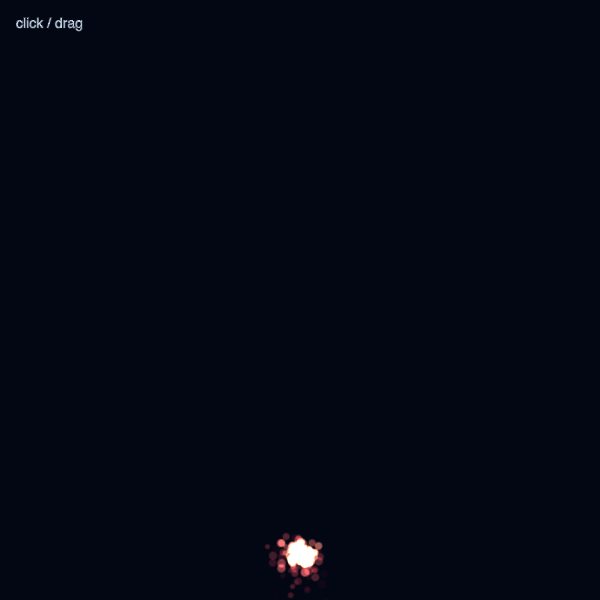
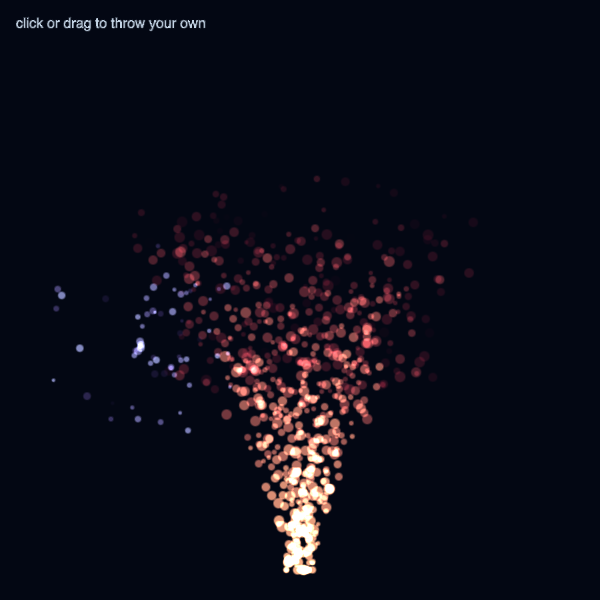
fix(examples): make the weak scenes worth looking at
Six of the eighteen stills were the argument against the gallery rather than
for it, and four of them were broken scenes rather than unlucky captures.

**Mouse trail** was a single dot. Sixty samples of a cursor that has not moved
stack on one point, so the scene had nothing to show anyone who had not already
touched it — including the first second after it loads. It now flies a slow
figure of its own and hands over the moment a real cursor arrives, leaning
rather than jumping in both directions.

**Particles** was a speck at the bottom of a black frame: a fountain whose
sparks died at ankle height, and a burst that only existed if you were already
holding the mouse. The fountain now clears two thirds of the frame, and the
scene throws its own bursts until someone takes over — a scene has to be worth
looking at before anyone thinks to click it.

**Post bloom** came out as a white smear. The chain replaces the frame rather
than adding to it, because a pass only ever sees the pass before it; the shapes
were drawn opaque and additive, so they saturated, the threshold kept all of
them and the blur spread one white sheet over everything. Fewer, translucent,
spread wider — and now the cutoff finds cores and the blur gives them halos.
The threshold also returned `vec4(0.0)` for what it dropped, which is a
*transparent* frame, not a black one: identical over a dark page and wrong
everywhere else, which a still found immediately.
[…]

diff --git a/examples/particles.ts b/examples/particles.ts
@@ -1,5 +1,5 @@
 /**
- * Click or drag to throw sparks. A fountain at the bottom keeps emitting.
+ * A fountain that keeps throwing sparks, and bursts you can throw yourself.
  * Tests: pooled particles, gravity, colour fade, zero-alloc fillRgba path.
  */
 import { start, type HazumiApp } from "hazumi/app";
@@ -7,38 +7,49 @@ import { webgl2 } from "hazumi/backends/webgl2";
 import { Blend, background, fill, text, textSize } from "hazumi/draw";
 import { input } from "hazumi/input";
 import { particles } from "hazumi/particles";
-import { screen } from "hazumi/scene";
+import { random, screen } from "hazumi/scene";
 
 export function sparks(parent: HTMLElement): HazumiApp {
   return start({ backend: webgl2(), width: 600, height: 600, parent, seed: 4 }, () => {
-    const burst = particles({ capacity: 400, gravity: { y: 520 }, drag: 0.6, blend: Blend.Add });
-    const fountain = particles({ capacity: 180, gravity: { y: 380 }, drag: 0.4, blend: Blend.Add });
+    const burst = particles({ capacity: 700, gravity: { y: 520 }, drag: 0.6, blend: Blend.Add });
+    const fountain = particles({ capacity: 900, gravity: { y: 380 }, drag: 0.2, blend: Blend.Add });
+    // Somewhere for the automatic bursts to go off, wandering so two of them
+    // are never in the same place.
+    let sinceBurst = 0;
 
     return {
       update: (dt: number): void => {
         fountain.drip(
           {
-            x: [screen.width / 2 - 10, screen.width / 2 + 10],
-            y: screen.height - 36,
-            rate: 180,
-            speed: [80, 160],
-            angle: [-Math.PI / 2 - 0.35, -Math.PI / 2 + 0.35],
+            x: [screen.width / 2 - 14, screen.width / 2 + 14],
+            y: screen.height - 30,
+            rate: 620,
+            // Enough to clear two thirds of the frame: a fountain that dies at
+            // ankle height reads as a fault rather than as a fountain.
+            speed: [420, 620],
+            angle: [-Math.PI / 2 - 0.3, -Math.PI / 2 + 0.3],
             spin: [-4, 4],
-            life: [0.5, 1.1],
-            size: [4, 9],
+            life: [0.9, 1.6],
+            size: [4, 11],
             color: "oklch(0.82 0.16 55)",
             endColor: "oklch(0.45 0.18 20 / 0)",
           },
           dt,
         );
-        if (input.mouseIsPressed) {
+        sinceBurst += dt;
+        // The scene has to be worth looking at before anyone thinks to click
+        // it, so it throws its own bursts until someone does.
+        const held = input.mouseIsPressed;
+        if (held || sinceBurst > 0.85) {
+          const spread = held ? 0 : 1;
+          sinceBurst = held ? sinceBurst : 0;
           burst.emit({
-            x: input.mouseX,
-            y: input.mouseY,
-            count: 14,
-            speed: [60, 220],
+            x: held ? input.mouseX : random.range(120, screen.width - 120),
+            y: held ? input.mouseY : random.range(120, screen.height - 200),
+            count: held ? 14 : 60,
+            speed: [60, 220 + spread * 180],
             spin: [-10, 10],
-            life: [0.25, 0.7],
+            life: [0.25, 0.7 + spread * 0.5],
             size: [3, 8],
             color: "oklch(0.9 0.14 250)",
             endColor: "oklch(0.55 0.2 300 / 0)",
@@ -53,7 +64,7 @@ export function sparks(parent: HTMLElement): HazumiApp {
         burst.draw(alpha);
         fill("oklch(0.86 0.03 250)");
         textSize(14);
-        text("click / drag", 16, 28);
+        text("click or drag to throw your own", 16, 28);
       },
     };
   });

diff --git a/examples/post-bloom.ts b/examples/post-bloom.ts
@@ -5,19 +5,32 @@
  * This is the case the architecture exists for — shaders as a normal feature
  * rather than an escape hatch. The scene is deliberately plain; the whole look
  * comes from the chain.
+ *
+ * The chain replaces the frame rather than adding to it, because a pass only
+ * ever sees the pass before it. That decides how the scene has to be drawn: if
+ * the shapes saturate, the threshold keeps all of them and the blur spreads one
+ * white sheet over the frame. So they are drawn translucent and spread apart,
+ * and what survives the cutoff is their cores — which is what blooms.
  */
 import { start, type HazumiApp } from "hazumi/app";
 import { webgl2 } from "hazumi/backends/webgl2";
 import { background, blendMode, Blend, circle, fill } from "hazumi/draw";
 import { screen, setPasses, time } from "hazumi/scene";
 
-/** Keep only the bright parts, so the blur has something to bloom. */
+/**
+ * Keep only the bright parts, so the blur has something to bloom.
+ *
+ * Opaque black for what it drops, rather than `vec4(0.0)`. Zero alpha looks the
+ * same over a dark page and is not the same thing at all: the frame comes back
+ * transparent, so anything the canvas is composited onto shows through — which
+ * a still of the scene finds immediately.
+ */
 const THRESHOLD = `
 uniform float u_cutoff;
 void main() {
   vec4 c = texture(u_texture, v_uv);
   float brightness = max(c.r, max(c.g, c.b));
-  fragColor = brightness > u_cutoff ? c : vec4(0.0);
+  fragColor = vec4(brightness > u_cutoff ? c.rgb : vec3(0.0), 1.0);
 }
 `;
 
@@ -36,9 +49,9 @@ export function postBloom(parent: HTMLElement): HazumiApp {
   return start({ backend: webgl2(), width: 600, height: 600, parent, seed: 9 }, () => {
     // Configuration, so it belongs in scene creation rather than the draw loop.
     setPasses([
-      { fragment: THRESHOLD, uniforms: { u_cutoff: 0.5 } },
-      { fragment: blur(4, 0) },
-      { fragment: blur(0, 4) },
+      { fragment: THRESHOLD, uniforms: { u_cutoff: 0.62 } },
+      { fragment: blur(3, 0) },
+      { fragment: blur(0, 3) },
     ]);
 
     return {
@@ -46,11 +59,16 @@ export function postBloom(parent: HTMLElement): HazumiApp {
         background("oklch(0.11 0.02 265)");
         blendMode(Blend.Add);
 
-        for (let i = 0; i < 60; i++) {
-          const a = (i / 60) * Math.PI * 2 + time.elapsed * 0.3;
-          const r = 120 + Math.sin(time.elapsed + i * 0.35) * 70;
-          fill(`oklch(${0.72 + 0.2 * Math.sin(i)} 0.22 ${(i * 6 + time.elapsed * 40) % 360})`);
-          circle(screen.width / 2 + Math.cos(a) * r, screen.height / 2 + Math.sin(a * 1.3) * r, 26);
+        const count = 34;
+        for (let i = 0; i < count; i++) {
+          const a = (i / count) * Math.PI * 2 + time.elapsed * 0.3;
+          const r = 150 + Math.sin(time.elapsed + i * 0.35) * 78;
+          // Translucent, so two that cross make a brighter core rather than
+          // another patch of white.
+          fill(
+            `oklch(${0.74 + 0.16 * Math.sin(i)} 0.24 ${(i * 11 + time.elapsed * 40) % 360} / 0.62)`,
+          );
+          circle(screen.width / 2 + Math.cos(a) * r, screen.height / 2 + Math.sin(a * 1.3) * r, 22);
         }
       },
     };

diff --git a/examples/mouse-trail.ts b/examples/mouse-trail.ts
@@ -1,34 +1,61 @@
 /**
- * A trail that follows the cursor.
+ * A trail that draws itself until you take it over.
  * Tests: mouse input, per-frame state, ellipse, alpha fade.
  */
 import { start, type HazumiApp } from "hazumi/app";
 import { webgl2 } from "hazumi/backends/webgl2";
 import { background, ellipse, fill } from "hazumi/draw";
 import { input } from "hazumi/input";
-import { screen } from "hazumi/scene";
+import { screen, time } from "hazumi/scene";
 
-const TRAIL = 60;
+const TRAIL = 90;
+/** How long the trail waits before deciding you have let go of it. */
+const IDLE_AFTER = 1.4;
 
 export function mouseTrail(parent: HTMLElement): HazumiApp {
   return start({ backend: webgl2(), width: 600, height: 600, parent }, () => {
     const px = new Float32Array(TRAIL).fill(screen.width / 2);
     const py = new Float32Array(TRAIL).fill(screen.height / 2);
     let head = 0;
+    let idle = IDLE_AFTER;
+    let lastX = input.mouseX;
+    let lastY = input.mouseY;
+    // Where the trail is actually heading, so taking over and letting go are
+    // both a lean rather than a jump.
+    let x = screen.width / 2;
+    let y = screen.height / 2;
 
     return {
       draw: (): void => {
         background("oklch(0.14 0.02 280)");
 
+        const moved = input.mouseX !== lastX || input.mouseY !== lastY;
+        lastX = input.mouseX;
+        lastY = input.mouseY;
+        idle = moved ? 0 : idle + time.delta;
+
+        // A cursor that has not moved leaves sixty samples stacked on one
+        // point, which is a dot. So the trail flies a slow figure of its own
+        // until a real cursor arrives, and drifts back to it afterwards.
+        const t = time.elapsed;
+        const driftX = screen.width / 2 + Math.cos(t * 0.7) * screen.width * 0.32;
+        const driftY = screen.height / 2 + Math.sin(t * 1.1) * screen.height * 0.3;
+        const guided = idle < IDLE_AFTER;
+        const targetX = guided ? input.mouseX : driftX;
+        const targetY = guided ? input.mouseY : driftY;
+        const lean = guided ? 0.45 : 0.06;
+        x += (targetX - x) * lean;
+        y += (targetY - y) * lean;
+
         head = (head + 1) % TRAIL;
-        px[head] = input.mouseX;
-        py[head] = input.mouseY;
+        px[head] = x;
+        py[head] = y;
 
         for (let i = 0; i < TRAIL; i++) {
           const index = (head - i + TRAIL) % TRAIL;
           const age = i / TRAIL;
-          const size = (1 - age) * (input.mouseIsPressed ? 46 : 28) + 4;
-          fill(`oklch(${0.85 - age * 0.35} ${0.18 - age * 0.1} ${260 + i * 2} / ${1 - age})`);
+          const size = (1 - age) * (input.mouseIsPressed ? 52 : 34) + 4;
+          fill(`oklch(${0.9 - age * 0.4} ${0.2 - age * 0.11} ${250 + i * 1.6} / ${1 - age})`);
           ellipse(px[index] as number, py[index] as number, size, size * 0.7);
         }
       },

diff --git a/examples/tile-field.ts b/examples/tile-field.ts
@@ -17,8 +17,35 @@ const TILE = 34;
 export function tileField(parent: HTMLElement): HazumiApp {
   return start({ backend: webgl2(), width: 600, height: 600, parent, seed: 12 }, async (scene) => {
     const { random, width, height } = scene;
-    const image = await loadImage("/examples/assets/tiles.png");
-    const sheet = spritesheet(image, { frame: [16, 16] });
+    const image = await loadImage("/examples/assets/dungeon-tiles.png");
+    // Named by what they are, and pointed at by grid position rather than by
+    // an index nobody can check. The eight are the floor of the sheet: four
+    // cobbled, four of dirt and pebbles, all in one palette so a field of them
+    // reads as a floor rather than as a test pattern.
+    const sheet = spritesheet(image, {
+      frame: [16, 16],
+      frames: {
+        cobble: [2, 2],
+        cobbleWorn: [3, 2],
+        cobbleCracked: [4, 2],
+        cobbleChipped: [5, 2],
+        dirt: [2, 3],
+        dirtStones: [3, 3],
+        dirtPebbles: [4, 3],
+        dirtBare: [5, 3],
+      },
+    });
+    const FLOOR = [
+      "cobble",
+      "cobbleWorn",
+      "cobbleCracked",
+      "cobbleChipped",
+      "dirt",
+      "dirtStones",
+      "dirtPebbles",
+      "dirtBare",
+    ] as const;
+    const floor = FLOOR.map((name) => sheet.indexOf(name));
 
     const cols = Math.ceil(width / TILE) + 2;
     const rows = Math.ceil(height / TILE) + 2;
@@ -27,7 +54,7 @@ export function tileField(parent: HTMLElement): HazumiApp {
     // scrolls rather than shimmering.
     const tiles = new Uint8Array(cols * rows);
     for (let i = 0; i < tiles.length; i++) {
-      tiles[i] = random.int(0, sheet.length);
+      tiles[i] = floor[random.int(0, floor.length)] as number;
     }
     const field = tilemap({
       columns: cols,
@@ -47,7 +74,11 @@ export function tileField(parent: HTMLElement): HazumiApp {
 
         fill("oklch(0.95 0.02 90)");
         textSize(14);
-        text(`${cols * rows} sprites · 16 frames · one texture`, 16, screen.height - 18);
+        text(
+          `${cols * rows} sprites · ${floor.length} frames · one texture`,
+          16,
+          screen.height - 18,
+        );
       },
     };
   });

diff --git a/examples/flow-field.ts b/examples/flow-field.ts
@@ -9,6 +9,23 @@ import { noise, random, screen, time } from "hazumi/scene";
 
 const COUNT = 4000;
 
+/**
+ * Trail colours, built once and picked by the direction a particle is going.
+ *
+ * Two reasons, and both matter. A template string per particle is four thousand
+ * strings a frame, which is exactly the per-frame allocation this repo rules
+ * out; and colouring by angle rather than by index draws the field itself —
+ * where the flow turns, the colour turns with it, so the structure is visible
+ * instead of being a uniform blue haze.
+ */
+const PALETTE = Array.from(
+  { length: 24 },
+  (_, i) => `oklch(0.86 0.19 ${Math.round((i * 360) / 24)} / 0.16)`,
+);
+
+const TAU = Math.PI * 2;
+const PALETTE_STEP = PALETTE.length / TAU;
+
 export function flowField(parent: HTMLElement): HazumiApp {
   return start({ backend: webgl2(), width: 600, height: 600, parent, seed: 7 }, () => {
     const xs = new Float32Array(COUNT);
@@ -18,13 +35,13 @@ export function flowField(parent: HTMLElement): HazumiApp {
       ys[i] = random.range(0, screen.height);
     }
 
-    background("oklch(0.15 0.03 260)");
+    background("oklch(0.09 0.02 265)");
 
     return {
       draw: (): void => {
         // Translucent background: fades the previous frame instead of clearing
         // it, which is what leaves trails behind the particles.
-        background("oklch(0.15 0.03 260 / 0.06)");
+        background("oklch(0.09 0.02 265 / 0.045)");
         blendMode(Blend.Add);
         for (let i = 0; i < COUNT; i++) {
           const x = xs[i] as number;
@@ -36,8 +53,9 @@ export function flowField(parent: HTMLElement): HazumiApp {
           xs[i] = nx < 0 ? screen.width : nx > screen.width ? 0 : nx;
           ys[i] = ny < 0 ? screen.height : ny > screen.height ? 0 : ny;
 
-          fill(i % 3 === 0 ? "oklch(0.7 0.15 200 / 0.06)" : "oklch(0.6 0.18 300 / 0.05)");
-          circle(nx, ny, 2.5);
+          const bucket = Math.floor((((angle % TAU) + TAU) % TAU) * PALETTE_STEP) % PALETTE.length;
+          fill(PALETTE[bucket] as string);
+          circle(nx, ny, 2.2);
         }
       },
     };

diff --git a/examples/characters.ts b/examples/characters.ts
@@ -23,11 +23,38 @@ export function characters(parent: HTMLElement): HazumiApp {
   return start({ backend: webgl2(), width: 600, height: 600, parent, seed: 21 }, async (scene) => {
     const { random, width, height } = scene;
     const [tilesImage, heroImage] = await Promise.all([
-      loadImage("/examples/assets/tiles.png"),
+      loadImage("/examples/assets/dungeon-tiles.png"),
       loadImage("/examples/assets/hero.png"),
     ]);
 
-    const tiles = spritesheet(tilesImage, { frame: [16, 16] });
+    // The floor of the sheet, named by what it is. A field of the whole sheet
+    // would be walls, banners and potions strewn flat on the ground, which is
+    // what this scene used to draw and why nobody could see the characters.
+    const tiles = spritesheet(tilesImage, {
+      frame: [16, 16],
+      frames: {
+        cobble: [2, 2],
+        cobbleWorn: [3, 2],
+        cobbleCracked: [4, 2],
+        cobbleChipped: [5, 2],
+        dirt: [2, 3],
+        dirtStones: [3, 3],
+        dirtPebbles: [4, 3],
+        dirtBare: [5, 3],
+      },
+    });
+    const floor = (
+      [
+        "cobble",
+        "cobbleWorn",
+        "cobbleCracked",
+        "cobbleChipped",
+        "dirt",
+        "dirtStones",
+        "dirtPebbles",
+        "dirtBare",
+      ] as const
+    ).map((name) => tiles.indexOf(name));
     const hero = spritesheet(heroImage, {
       frame: [16, 24],
       clips: {
@@ -39,7 +66,10 @@ export function characters(parent: HTMLElement): HazumiApp {
 
     const cols = Math.ceil(width / TILE) + 1;
     const rows = Math.ceil(height / TILE) + 1;
-    const ground = Array.from({ length: cols * rows }, () => random.int(0, tiles.length));
+    const ground = Array.from(
+      { length: cols * rows },
+      () => floor[random.int(0, floor.length)] as number,
+    );
 
     const actors = Array.from({ length: COUNT }, () => ({
       x: random.range(0, width),
